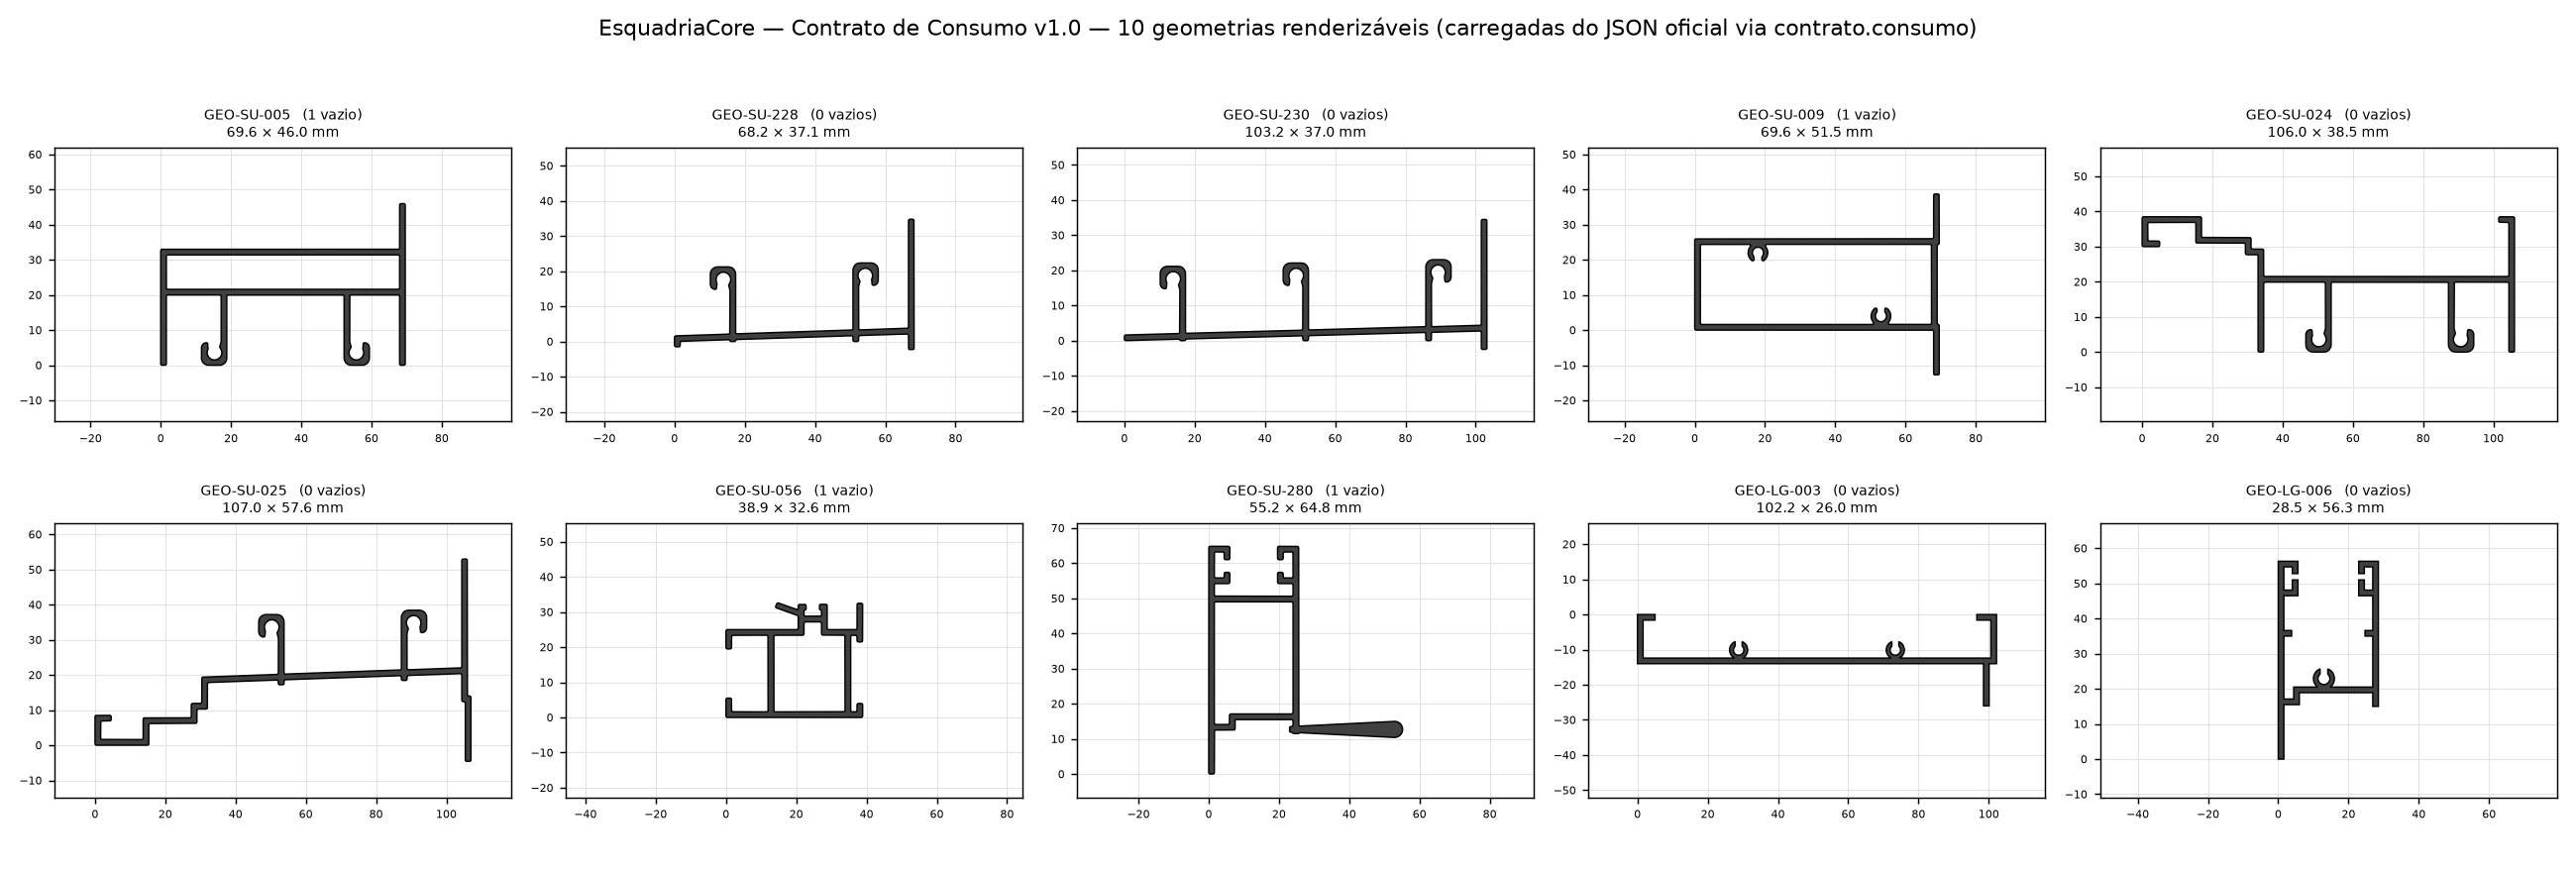
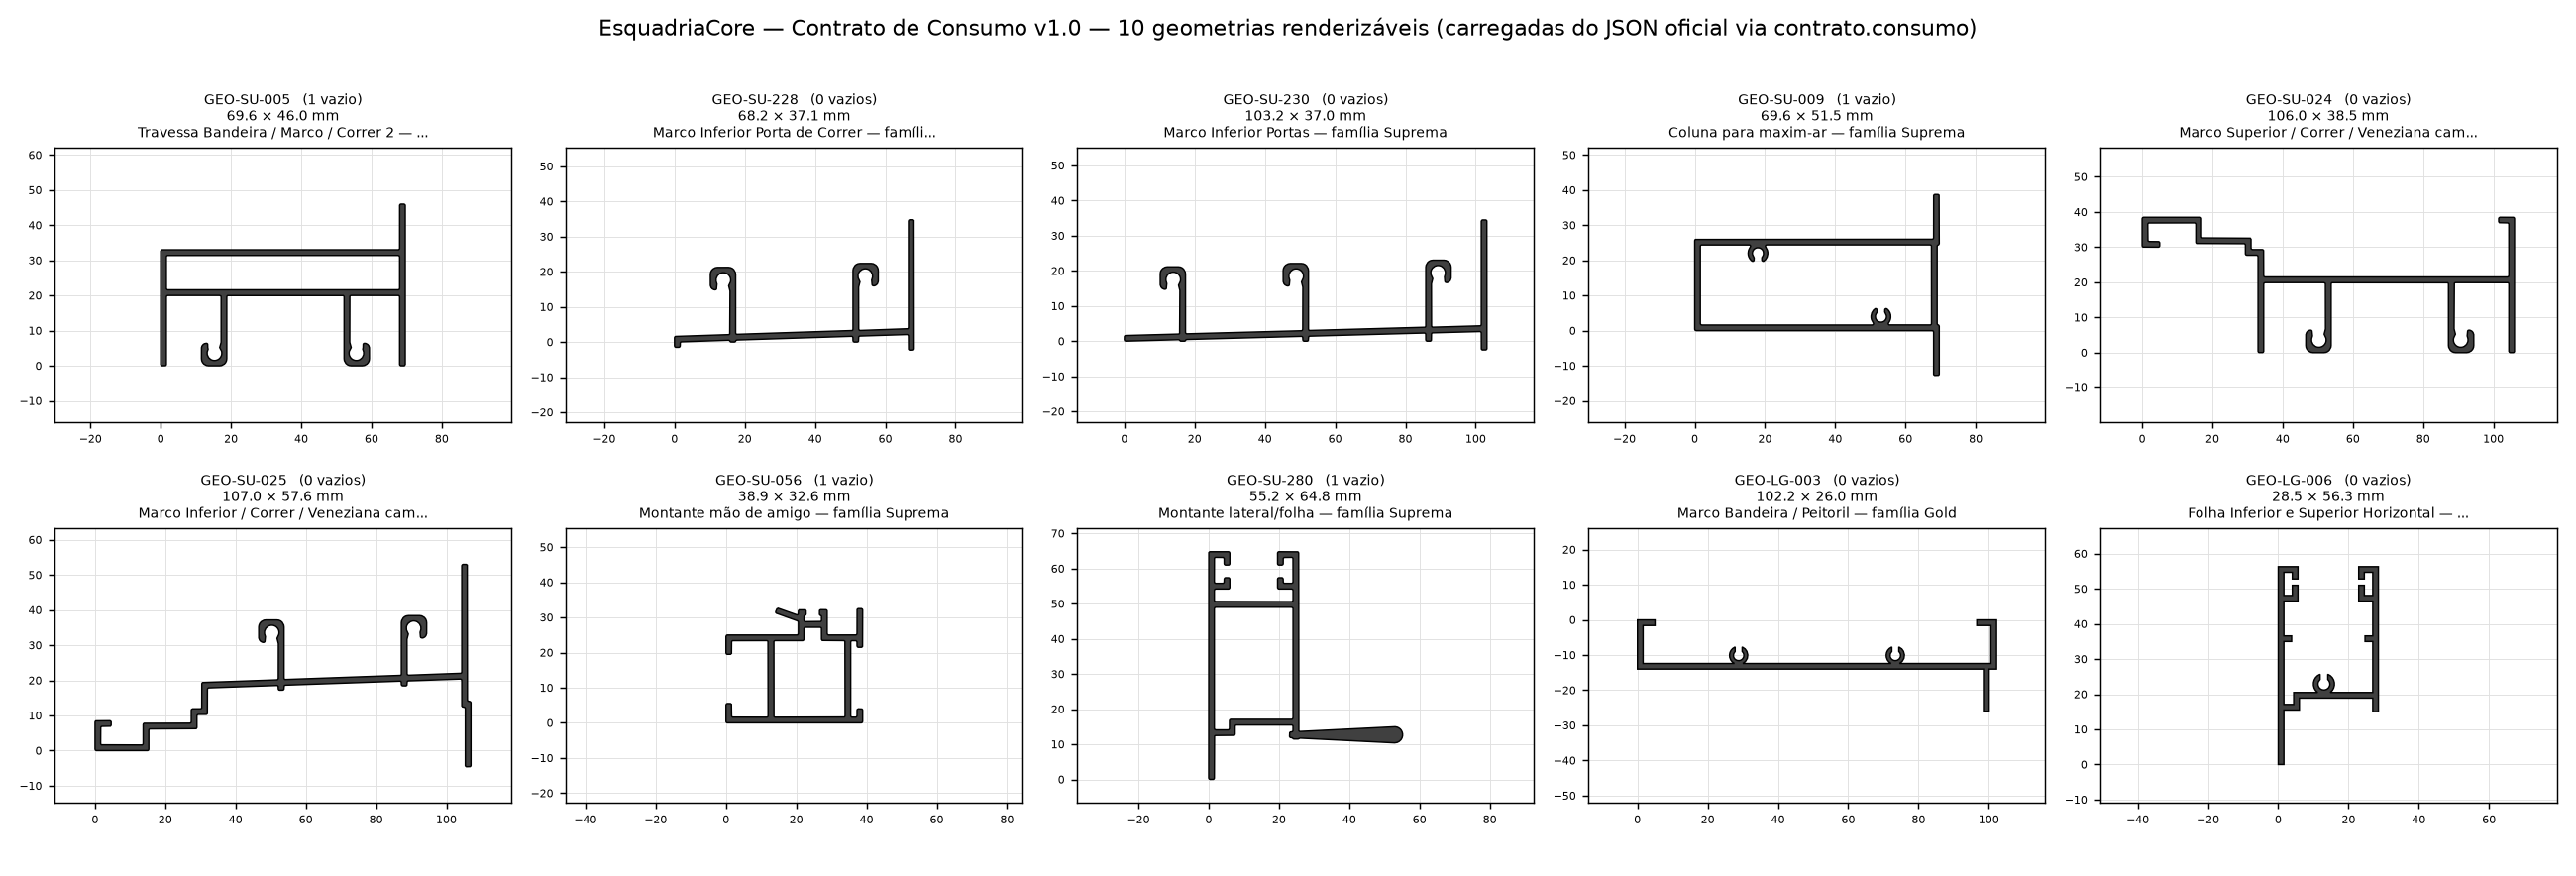
fix(E.3): alinha imutabilidade, schema e documentacao do contrato
- BibliotecaConsumivel: indice interno via MappingProxyType (somente
  leitura) + erro explicito para codigos de geometria duplicados
- bounding_box serializado como objeto nomeado
  {min_x,min_y,max_x,max_y,largura,altura} (nao mais lista posicional)
- associacoes: campos obrigatorios falham explicitamente quando ausentes
  ou vazios (perfil_id, geometria_padrao_id, responsavel_homologacao,
  metodo_validacao, data, nivel_de_confianca); observacoes obrigatoria
  como chave, valor pode ser None
- ADR-009 e adendo: contorno_mm e apenas fallback de ENTRADA, nao campo
  de saida; caminho do schema corrigido (contrato/schemas/)
- painel: inclui g.descricao (truncada) quando existente
- testes correspondentes (imutabilidade da biblioteca, duplicidade,
  bbox objeto, obrigatorios das associacoes)

dados oficiais byte a byte inalterados; VERSION e CHANGELOG intocados.

diff --git a/tests/test_contrato_consumo.py b/tests/test_contrato_consumo.py
@@ -188,9 +188,23 @@ def test_bounding_box_coerente(bib):
     for g in bib.renderizaveis():
         xs = [p[0] for p in g.contorno_externo]
         ys = [p[1] for p in g.contorno_externo]
-        assert isinstance(g.bounding_box, BoundingBoxDTO)
-        assert g.bounding_box.para_lista() == [min(xs), min(ys), max(xs), max(ys)]
+        bb = g.bounding_box
+        assert isinstance(bb, BoundingBoxDTO)
+        assert (bb.min_x, bb.min_y, bb.max_x, bb.max_y) == \
+            (min(xs), min(ys), max(xs), max(ys))
         assert g.largura_mm > 0 and g.altura_mm > 0
+
+
+def test_bounding_box_serializa_como_objeto_nomeado(bib):
+    g = bib.renderizaveis()[0]
+    d = g.para_dict()["bounding_box"]
+    assert isinstance(d, dict)
+    assert set(d) == {"min_x", "min_y", "max_x", "max_y", "largura", "altura"}
+    assert d["largura"] == round(d["max_x"] - d["min_x"], 4)
+    assert d["altura"] == round(d["max_y"] - d["min_y"], 4)
+    # bruta -> null
+    b = next(x for x in bib.geometrias if not x.renderizavel)
+    assert b.para_dict()["bounding_box"] is None
 
 
 def test_contornos_passam_validacao_de_dominio(bib):
@@ -255,7 +269,8 @@ def test_fechamento_explicito_removido_sem_alterar_geometria():
     # mesma coleção de vértices geométricos, mesmo bounding-box
     assert set(g.contorno_externo) == {(0.0, 0.0), (10.0, 0.0),
                                        (10.0, 10.0), (0.0, 10.0)}
-    assert g.bounding_box.para_lista() == [0.0, 0.0, 10.0, 10.0]
+    bb = g.bounding_box
+    assert (bb.min_x, bb.min_y, bb.max_x, bb.max_y) == (0.0, 0.0, 10.0, 10.0)
 
 
 # ---------------------------------------------------------------------------
@@ -279,6 +294,32 @@ def test_dto_associacao_imutavel(bib):
         a.perfil_id = "x"
 
 
+def test_biblioteca_imutavel(bib):
+    # coleções são tuplas
+    assert isinstance(bib.geometrias, tuple)
+    assert isinstance(bib.associacoes, tuple)
+    # não é possível reatribuir campos
+    with pytest.raises(dataclasses.FrozenInstanceError):
+        bib.geometrias = ()
+    # índice interno é somente-leitura (MappingProxyType)
+    with pytest.raises(TypeError):
+        bib._por_codigo["X"] = None
+
+
+def test_codigos_duplicados_falham(tmp_path):
+    geo = tmp_path / "g.json"
+    ass = tmp_path / "a.json"
+    dois_iguais = {"geometrias": [
+        {"id": "GEO-DUP", "contorno_externo": [[0, 0], [10, 0], [5, 8]],
+         "nivel_contorno": "2_renderizavel_comercial"},
+        {"id": "GEO-DUP", "contorno_externo": [[0, 0], [10, 0], [5, 8]],
+         "nivel_contorno": "2_renderizavel_comercial"}]}
+    geo.write_text(json.dumps(dois_iguais))
+    ass.write_text(json.dumps({"associacoes": []}))
+    with pytest.raises(ContratoInvalido):
+        carregar_biblioteca(str(geo), str(ass))
+
+
 # ---------------------------------------------------------------------------
 # Associações (PerfilGeometria) — ADR-005
 # ---------------------------------------------------------------------------
@@ -297,6 +338,47 @@ def test_toda_associacao_referencia_geometria_existente(bib):
 def test_identificadores_obrigatorios_nao_vazios(bib):
     for a in bib.associacoes:
         assert a.perfil_id and a.geometria_padrao_id
+
+
+def _assoc_base():
+    return {
+        "perfil_id": "ALCOA-SU-005", "geometria_padrao_id": "GEO-SU-005",
+        "responsavel_homologacao": "Bruno", "metodo_validacao": "visual",
+        "data": "2026-07-09", "nivel_de_confianca": "alto",
+        "observacoes": None}
+
+
+def test_associacao_campo_obrigatorio_ausente_falha():
+    from contrato.consumo import _adaptar_associacao
+    reg = _assoc_base()
+    del reg["metodo_validacao"]
+    with pytest.raises(ContratoInvalido) as e:
+        _adaptar_associacao(reg)
+    assert "metodo_validacao" in str(e.value)
+
+
+def test_associacao_campo_obrigatorio_vazio_falha():
+    from contrato.consumo import _adaptar_associacao
+    reg = _assoc_base()
+    reg["responsavel_homologacao"] = "   "     # só espaços
+    with pytest.raises(ContratoInvalido) as e:
+        _adaptar_associacao(reg)
+    assert "responsavel_homologacao" in str(e.value)
+
+
+def test_associacao_observacoes_none_aceito():
+    from contrato.consumo import _adaptar_associacao
+    a = _adaptar_associacao(_assoc_base())     # observacoes=None
+    assert a.observacoes is None
+
+
+def test_associacao_observacoes_chave_ausente_falha():
+    from contrato.consumo import _adaptar_associacao
+    reg = _assoc_base()
+    del reg["observacoes"]
+    with pytest.raises(ContratoInvalido) as e:
+        _adaptar_associacao(reg)
+    assert "observacoes" in str(e.value)
 
 
 def test_campos_de_auditoria_preservados(bib):

diff --git a/contrato/consumo.py b/contrato/consumo.py
@@ -31,6 +31,7 @@ from __future__ import annotations
 
 import json
 from dataclasses import dataclass, field
+from types import MappingProxyType
 from typing import Optional
 
 from domain.entidades import GeometriaPadrao, validar_contornos
@@ -141,8 +142,15 @@ class BoundingBoxDTO:
     def altura(self) -> float:
         return round(self.max_y - self.min_y, 4)
 
-    def para_lista(self) -> list:
-        return [self.min_x, self.min_y, self.max_x, self.max_y]
+    def para_dict(self) -> dict:
+        return {
+            "min_x": self.min_x,
+            "min_y": self.min_y,
+            "max_x": self.max_x,
+            "max_y": self.max_y,
+            "largura": self.largura,
+            "altura": self.altura,
+        }
 
 
 @dataclass(frozen=True)
@@ -196,7 +204,7 @@ class GeometriaConsumivel:
             "contorno_externo": anel(self.contorno_externo),
             "vazios_internos": [anel(v) for v in self.vazios_internos],
             "fonte_contorno": self.fonte_contorno,
-            "bounding_box": (self.bounding_box.para_lista()
+            "bounding_box": (self.bounding_box.para_dict()
                              if self.bounding_box is not None else None),
             "status_contorno": self.status_contorno,
             "metodo_contorno": self.metodo_contorno,
@@ -240,15 +248,19 @@ class AssociacaoConsumivel:
 
 @dataclass(frozen=True)
 class BibliotecaConsumivel:
-    """Recorte imutável de toda a biblioteca na fronteira de consumo."""
+    """Recorte imutável de toda a biblioteca na fronteira de consumo. As
+    coleções são tuplas e o índice interno é um MappingProxyType (somente
+    leitura) — a imutabilidade do ADR-009 vale também para a biblioteca."""
     geometrias: tuple
     associacoes: tuple
 
-    _por_codigo: dict = field(default_factory=dict, compare=False, repr=False)
+    _por_codigo: MappingProxyType = field(compare=False, repr=False, default=None)
 
     def __post_init__(self):
-        object.__setattr__(
-            self, "_por_codigo", {g.codigo: g for g in self.geometrias})
+        indice = {g.codigo: g for g in self.geometrias}
+        if len(indice) != len(self.geometrias):
+            raise ContratoInvalido("códigos de geometria duplicados")
+        object.__setattr__(self, "_por_codigo", MappingProxyType(indice))
 
     def geometria(self, codigo: str) -> GeometriaConsumivel:
         try:
@@ -350,21 +362,40 @@ def _adaptar_geometria(registro: dict) -> GeometriaConsumivel:
     )
 
 
+# Campos obrigatórios da associação (inspeção: presentes nas 245). Não são
+# mascarados: ausência/valor vazio falha explicitamente, distinguindo dos casos
+# de string vazia silenciosa. `observacoes` é obrigatório como CHAVE, mas seu
+# valor pode ser None.
+_ASSOC_OBRIGATORIOS = (
+    "perfil_id", "geometria_padrao_id", "responsavel_homologacao",
+    "metodo_validacao", "data", "nivel_de_confianca",
+)
+
+
 def _adaptar_associacao(registro: dict) -> AssociacaoConsumivel:
-    perfil_id = registro.get("perfil_id") or ""
-    geometria_id = registro.get("geometria_padrao_id") or ""
-    if not perfil_id or not geometria_id:
+    ident = registro.get("perfil_id") or registro.get("geometria_padrao_id") or "?"
+    for campo in _ASSOC_OBRIGATORIOS:
+        if campo not in registro:
+            raise ContratoInvalido(
+                f"associação {ident}: campo obrigatório ausente '{campo}'")
+        valor = registro[campo]
+        if not isinstance(valor, str) or not valor.strip():
+            raise ContratoInvalido(
+                f"associação {ident}: campo obrigatório '{campo}' vazio ou "
+                f"inválido ({valor!r})")
+    if "observacoes" not in registro:
         raise ContratoInvalido(
-            f"associação com identificador obrigatório vazio: {registro!r}")
-    prefixo = perfil_id.split("-", 1)[0].upper()
+            f"associação {ident}: chave obrigatória 'observacoes' ausente "
+            f"(valor pode ser None, mas a chave deve existir)")
+    prefixo = registro["perfil_id"].split("-", 1)[0].upper()
     return AssociacaoConsumivel(
-        perfil_id=perfil_id,
-        geometria_padrao_id=geometria_id,
-        responsavel_homologacao=registro.get("responsavel_homologacao") or "",
-        metodo_validacao=registro.get("metodo_validacao") or "",
-        data=registro.get("data") or "",
-        nivel_de_confianca=registro.get("nivel_de_confianca") or "",
-        observacoes=registro.get("observacoes"),
+        perfil_id=registro["perfil_id"],
+        geometria_padrao_id=registro["geometria_padrao_id"],
+        responsavel_homologacao=registro["responsavel_homologacao"],
+        metodo_validacao=registro["metodo_validacao"],
+        data=registro["data"],
+        nivel_de_confianca=registro["nivel_de_confianca"],
+        observacoes=registro["observacoes"],
         fabricante_derivado=_FABRICANTE_POR_PREFIXO.get(prefixo),  # None se desconhecido
     )
 

diff --git a/curadoria/painel_comercial.py b/curadoria/painel_comercial.py
@@ -68,10 +68,14 @@ def gerar(saida: str = SAIDA):
         ax.set_axisbelow(True)
         ax.tick_params(labelsize=6)
         nv = len(g.vazios_internos)
-        ax.set_title(
-            f"{g.codigo}   ({nv} {'vazio' if nv == 1 else 'vazios'})\n"
-            f"{g.largura_mm:.1f} × {g.altura_mm:.1f} mm",
-            fontsize=8)
+        descricao = (g.descricao or "").strip()
+        if len(descricao) > 42:
+            descricao = descricao[:39] + "..."
+        titulo = (f"{g.codigo}   ({nv} {'vazio' if nv == 1 else 'vazios'})\n"
+                  f"{g.largura_mm:.1f} × {g.altura_mm:.1f} mm")
+        if descricao:
+            titulo += f"\n{descricao}"
+        ax.set_title(titulo, fontsize=7.5)
 
     for ax in axs[n:]:
         ax.axis("off")

diff --git a/docs/ADR-009_contrato_minimo_de_consumo.md b/docs/ADR-009_contrato_minimo_de_consumo.md
@@ -53,22 +53,32 @@ Campos do DTO (nomes estáveis, deliberados):
 - `eixo_x = "positivo_para_direita"`;
 - `eixo_y = "positivo_para_cima"` (convenção matemática, não SVG);
 - as geometrias **não são transladadas**. O contrato expõe o **bounding-box**
-  calculado (`min_x, min_y, max_x, max_y`) como referência, sem modificar as
-  coordenadas originais.
+  calculado como objeto de campos nomeados
+  (`{min_x, min_y, max_x, max_y, largura, altura}`, em mm; `null` quando não há
+  contorno), sem modificar as coordenadas originais.
 
 ### 4. Fechamento dos anéis
 
 Fechamento **implícito**: o último ponto não repete o primeiro. Coerente com
 `domain.validar_contornos` (ADR-008).
 
-### 5. Formato legado (`contorno_mm`)
+### 5. Formato legado (`contorno_mm`) — apenas fallback de entrada
 
-O formato preferencial é `contorno_externo` + `vazios_internos` (ADR-008).
-Quando um registro só tiver `contorno_mm` (polígono cheio, sem vazios), o
-contrato o expõe **também** em `contorno_externo` (unificado) e mantém
-`contorno_mm` preenchido; `vazios_internos` fica vazio. Quando ambos existirem,
-o formato novo é preferencial. Nenhuma geometria atual usa o legado — o caso é
-coberto por teste sintético para garantir compatibilidade futura.
+A saída pública v1.0 tem **uma única forma geométrica**: `contorno_externo` +
+`vazios_internos`, com a procedência indicada por `fonte_contorno`.
+`contorno_mm` é **exclusivamente fallback de ENTRADA** e **não** é um campo do
+DTO de saída. Regras:
+
+1. se existir `contorno_externo`, ele é utilizado
+   (`fonte_contorno = "contorno_externo_vazios_internos"`);
+2. se não existir `contorno_externo` mas existir `contorno_mm`, seu conteúdo é
+   apresentado em `contorno_externo`, com `vazios_internos = ()` e
+   `fonte_contorno = "contorno_mm_legado"`;
+3. se nenhum existir, `contorno_externo = None` e `fonte_contorno = None`;
+4. quando o formato novo existe, ele prevalece.
+
+Nenhuma geometria atual usa o legado — o caso é coberto por teste sintético
+para garantir compatibilidade futura.
 
 ### 6. Versionamento do contrato
 

diff --git a/docs/adendos/adendo_contrato_consumo.md b/docs/adendos/adendo_contrato_consumo.md
@@ -2,7 +2,7 @@
 
 Este adendo complementa a documentação v1.0 (congelada) sem alterá-la.
 Origem: ADR-009. É a especificação legível (face humana) do contrato cuja face
-de máquina é `contrato/biblioteca_consumo.schema.json`.
+de máquina é `contrato/schemas/biblioteca_consumo.schema.json`.
 
 ## Objetivo
 
@@ -38,10 +38,10 @@ Também há `carregar_geometrias()` e `carregar_associacoes()` avulsos.
 | `eixo_y` | str | `"positivo_para_cima"` |
 | `nivel_contorno` | str | enumeração fechada (ver abaixo) |
 | `renderizavel` | bool | `True` só para níveis `2_`/`3_`/`4_` |
-| `contorno_externo` | lista de `[x,y]` / null | **CCW**; `null` quando ainda não há contorno |
+| `contorno_externo` | lista de `[x,y]` / null | **CCW**; `null` quando ainda não há contorno. É a forma geométrica única de saída (inclusive quando a origem é o legado) |
 | `vazios_internos` | lista de anéis | cada anel **CW**; **sempre lista** (vazia é válida, nunca `null`) |
-| `contorno_mm` | lista de `[x,y]` / null | legado; `null` quando não existe |
-| `bounding_box` | `[min_x,min_y,max_x,max_y]` / null | referência calculada; não translada o dado |
+| `fonte_contorno` | str/null | `"contorno_externo_vazios_internos"` / `"contorno_mm_legado"` / `null` |
+| `bounding_box` | objeto `{min_x,min_y,max_x,max_y,largura,altura}` / null | campos nomeados, em mm; `null` sem contorno; não translada o dado |
 | `status_contorno` | str/null | ex.: `validado_visualmente` |
 | `metodo_contorno` | str/null | ex.: `contorno_externo_vazios_internos` |
 | `evidencia_contorno` | str/null | caminho da imagem de evidência |
@@ -79,8 +79,16 @@ embute pontos.
    armazenado não é reordenado. Inverter a ordem de um anel não muda forma,
    coordenadas, escala ou posição — só o sentido de percurso.
 5. **Fechamento implícito**: o último ponto não repete o primeiro.
-6. **Preferência de contorno**: `contorno_externo` quando existir; `contorno_mm`
-   é fallback legado.
+6. **Forma geométrica única e legado**: a saída pública v1.0 tem uma só forma —
+   `contorno_externo` + `vazios_internos` — indicada por `fonte_contorno`.
+   `contorno_mm` é **apenas fallback de ENTRADA** e **não** pertence ao DTO de
+   saída. Regras:
+   - se existir `contorno_externo`, ele prevalece (`fonte_contorno =
+     "contorno_externo_vazios_internos"`);
+   - se só existir `contorno_mm`, seu conteúdo é apresentado em
+     `contorno_externo`, com `vazios_internos = ()` e `fonte_contorno =
+     "contorno_mm_legado"`;
+   - se nenhum existir, `contorno_externo = null` e `fonte_contorno = null`.
 7. **Níveis reconhecidos** (enumeração fechada, definida em
    `docs/plano_de_curadoria.md` / `domain/entidades.py` / ADR-008, reutilizada
    aqui): `0_bruto_aproximado`, `1_envelope_funcional`,